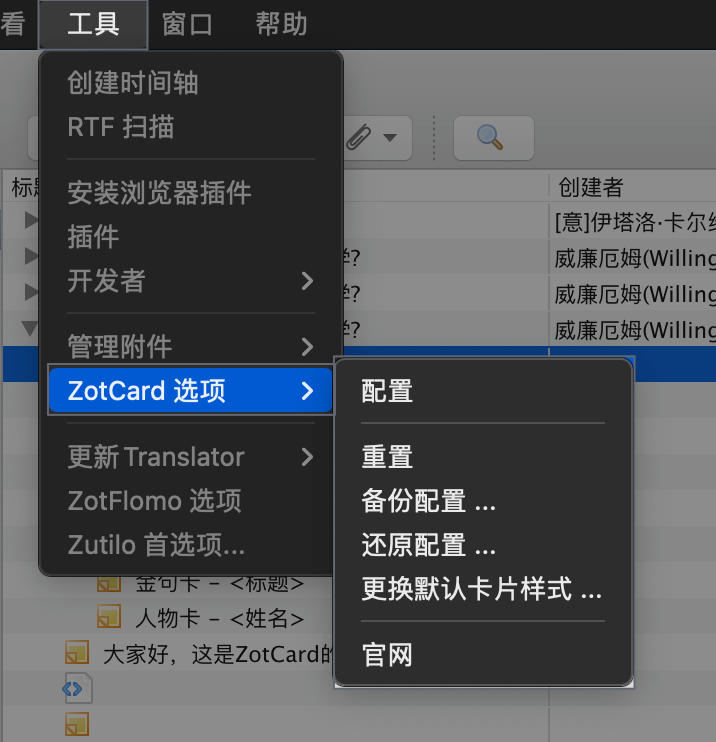
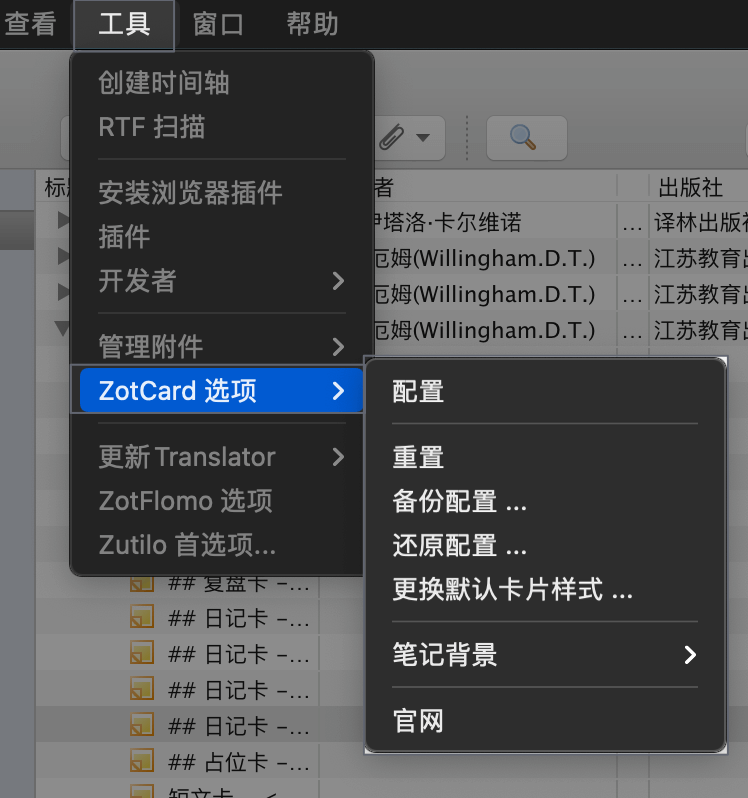
修复卡片样式的背景

diff --git a/chrome/content/zotcard.js b/chrome/content/zotcard.js
@@ -51,46 +51,6 @@ zotcard.init = function () {
   // Register the callback in Zotero as an item observer
   let notifierID = Zotero.Notifier.registerObserver(this.notifierCallback, ['item'])
 
-  document.getElementById('zotero-items-tree').onselect = function (e) {
-    ZoteroPane_Local.itemSelected(e)
-
-    var selectedItems = ZoteroPane.getSelectedItems()
-    if (selectedItems.length === 1) {
-      let item = selectedItems[0]
-      if (item.isNote()) {
-        let label = document.getElementById('zotero-view-note-counts')
-        if (!label) {
-          label = document.createElement('label')
-          label.setAttribute('id', 'zotero-view-note-counts')
-          label.textContent = `字数: 0  \t行数: 0 \t占空间: 0`
-          let noteEditor = document.getElementById('zotero-view-note')
-          noteEditor.prepend(label)
-        }
-        let hangzis = this.hangzi(item.getNote())
-        let liness = this.lines(item.getNote())
-        label.textContent = `字数: ${hangzis}     行数: ${liness}    占空间: ${item.getNote().length}`
-        Zotero.debug(`onselect: ${hangzis} ${liness}`)
-      }
-    }
-  }.bind(this)
-
-  document.getElementById('zotero-note-editor').onkeyup = function (e) {
-    let label = document.getElementById('zotero-view-note-counts')
-    if (!label) {
-      label = document.createElement('label')
-      label.setAttribute('id', 'zotero-view-note-counts')
-      label.textContent = `字数: 0  \t行数: 0 \t占空间: 0`
-      document.getElementById('zotero-view-note').prepend(label)
-    }
-
-    let noteEditor = e.currentTarget
-    Zotero.debug(`note: ${noteEditor.value}`)
-    let hangzis = this.hangzi(noteEditor.value)
-    let liness = this.lines(noteEditor.value)
-    label.textContent = `字数: ${hangzis}  \t行数: ${liness} \t占空间: ${noteEditor.value.length}`
-    Zotero.debug(`onkeyup: ${hangzis} ${liness}`)
-  }.bind(this)
-
   Zotero.Prefs.registerObserver('zotcard.card_quantity', function () {
     var quantity = Zotero.Prefs.get('zotcard.card_quantity')
     for (let index = 0; index < quantity; index++) {
@@ -100,6 +60,8 @@ zotcard.init = function () {
     this.resetCard(quantity + 1)
   }.bind(this))
 
+  document.getElementById('zotero-items-tree').addEventListener('select', this.itemsTreeOnSelect.bind(this), false)
+  document.getElementById('zotero-note-editor').addEventListener('keyup', this.noteEditorOnKeyup.bind(this), false)
   document.getElementById('zotero-itemmenu').addEventListener('popupshowing', this.refreshZoteroItemPopup.bind(this), false)
 
   this.initPrefs()
@@ -108,8 +70,48 @@ zotcard.init = function () {
   window.addEventListener('unload', function (e) {
     Zotero.Notifier.unregisterObserver(notifierID)
 
+    document.getElementById('zotero-items-tree').removeEventListener('select', this.itemsTreeOnSelect.bind(this), false)
+    document.getElementById('zotero-note-editor').removeEventListener('keyup', this.noteEditorOnKeyup.bind(this), false)
     document.getElementById('zotero-itemmenu').removeEventListener('popupshowing', this.refreshZoteroItemPopup.bind(this), false)
   }, false)
+}
+
+zotcard.noteEditorOnKeyup = function (e) {
+  let label = document.getElementById('zotero-view-note-counts')
+  if (!label) {
+    label = document.createElement('label')
+    label.setAttribute('id', 'zotero-view-note-counts')
+    label.textContent = `字数: 0  \t行数: 0 \t占空间: 0`
+    document.getElementById('zotero-view-note').prepend(label)
+  }
+
+  let noteEditor = e.currentTarget
+  Zotero.debug(`note: ${noteEditor.value}`)
+  let hangzis = this.hangzi(noteEditor.value)
+  let liness = this.lines(noteEditor.value)
+  label.textContent = `字数: ${hangzis}  \t行数: ${liness} \t占空间: ${noteEditor.value.length}`
+  Zotero.debug(`onkeyup: ${hangzis} ${liness}`)
+}
+
+zotcard.itemsTreeOnSelect = function () {
+  var selectedItems = ZoteroPane.getSelectedItems()
+  if (selectedItems.length === 1) {
+    let item = selectedItems[0]
+    if (item.isNote()) {
+      let label = document.getElementById('zotero-view-note-counts')
+      if (!label) {
+        label = document.createElement('label')
+        label.setAttribute('id', 'zotero-view-note-counts')
+        label.textContent = `字数: 0  \t行数: 0 \t占空间: 0`
+        let noteEditor = document.getElementById('zotero-view-note')
+        noteEditor.prepend(label)
+      }
+      let hangzis = this.hangzi(item.getNote())
+      let liness = this.lines(item.getNote())
+      label.textContent = `字数: ${hangzis}     行数: ${liness}    占空间: ${item.getNote().length}`
+      Zotero.debug(`onselect: ${hangzis} ${liness}`)
+    }
+  }
 }
 
 zotcard.refreshZoteroItemPopup = function () {
@@ -385,7 +387,6 @@ zotcard.newCard = async function (name) {
       if (isDebug()) Zotero.debug('creatorData: ' + JSON.stringify(creatorData))
     }
   }
-  var date = new Date()
   var item = new Zotero.Item('note')
   var pref = this.initPrefs(name)
   if (!pref) {
@@ -393,25 +394,51 @@ zotcard.newCard = async function (name) {
     ps.alert(window, this.getString('zotcard.warning'), this.getString('zotcard.please_configure', 'zotcard.' + name))
     return
   }
-  item.setNote(pref.card.replace(/\{authors\}/g, authors.toString())
-    .replace(/\{title\}/g, zitem.getField('title'))
-    .replace(/\{today\}/g, this.formatDate(date, 'yyyy-MM-dd'))
-    .replace(/\{now\}/g, this.formatDate(date, 'yyyy-MM-dd HH:mm:ss'))
-    .replace(/\{shortTitle\}/g, zitem.getField('shortTitle'))
-    .replace(/\{archiveLocation\}/g, zitem.getField('archiveLocation'))
-    .replace(/\{url\}/g, zitem.getField('url'))
-    .replace(/\{date\}/g, zitem.getField('date'))
-    .replace(/\{year\}/g, zitem.getField('year'))
-    .replace(/\{extra\}/g, zitem.getField('extra'))
-    .replace(/\{publisher\}/g, zitem.getField('publisher'))
-    .replace(/\{ISBN\}/g, zitem.getField('ISBN'))
-    .replace(/\{numPages\}/g, zitem.getField('numPages'))
-    .replace(/\\n/g, '\n'))
-  item.parentKey = zitem.getField('key')
-  item.libraryID = window.ZoteroPane.getSelectedLibraryID()
-  var itemID = await item.saveTx()
-  if (isDebug()) Zotero.debug('item.id: ' + itemID)
-  ZoteroPane.selectItem(itemID)
+  if (!pref.card) {
+    Zotero.ZotCard.Utils.warning(`在接下来的about:config窗口中进行配置。
+    zotcard.${name}\t\t\t卡片1模版
+    zotcard.${name}.label\t卡片1标题
+    zotcard.${name}.visible\t卡片1显示
+
+  详情请访问官网: https://github.com/018/zotcard`)
+    Zotero.openInViewer(`about:config?filter=zotero.zotcard.${name}`)
+  } else {
+    let now = new Date()
+    let firstDay = new Date()
+    firstDay.setMonth(0)
+    firstDay.setDate(0)
+    firstDay.setHours(23)
+    firstDay.setMinutes(59)
+    firstDay.setSeconds(59)
+    firstDay.setMilliseconds(59)
+    let dateGap = now.getTime() - firstDay.getTime()
+    let dayOfYear = Math.ceil(dateGap / (24 * 60 * 60 * 1000))
+    let weekOfYear = Math.ceil(dateGap / (7 * 24 * 60 * 60 * 1000))
+    let week = ['星期日', '星期一', '星期二', '星期三', '星期四', '星期五', '星期六'][now.getDay()]
+
+    item.setNote(pref.card.replace(/\{authors\}/g, authors.toString())
+      .replace(/\{title\}/g, zitem.getField('title'))
+      .replace(/\{today\}/g, this.formatDate(now, 'yyyy-MM-dd'))
+      .replace(/\{dayOfYear\}/g, dayOfYear)
+      .replace(/\{weekOfYear\}/g, weekOfYear)
+      .replace(/\{week\}/g, week)
+      .replace(/\{now\}/g, this.formatDate(now, 'yyyy-MM-dd HH:mm:ss'))
+      .replace(/\{shortTitle\}/g, zitem.getField('shortTitle'))
+      .replace(/\{archiveLocation\}/g, zitem.getField('archiveLocation'))
+      .replace(/\{url\}/g, zitem.getField('url'))
+      .replace(/\{date\}/g, zitem.getField('date'))
+      .replace(/\{year\}/g, zitem.getField('year'))
+      .replace(/\{extra\}/g, zitem.getField('extra'))
+      .replace(/\{publisher\}/g, zitem.getField('publisher'))
+      .replace(/\{ISBN\}/g, zitem.getField('ISBN'))
+      .replace(/\{numPages\}/g, zitem.getField('numPages'))
+      .replace(/\\n/g, '\n'))
+    item.parentKey = zitem.getField('key')
+    item.libraryID = window.ZoteroPane.getSelectedLibraryID()
+    var itemID = await item.saveTx()
+    if (isDebug()) Zotero.debug('item.id: ' + itemID)
+    ZoteroPane.selectItem(itemID)
+  }
 }
 
 zotcard.quotes = function () {
@@ -587,22 +614,17 @@ zotcard.copyHtmlToClipboard = function (textHtml) {
 }
 
 zotcard.config = function () {
-  Zotero.ZotCard.Utils.warning(`在接下来的about:config窗口中，搜索 ZotCard 进行配置。
+  Zotero.ZotCard.Utils.warning(`在接下来的about:config窗口中进行配置。
 默认：
   zotcard.quotes\t\t\t\t\t金句卡模版
+  zotcard.quotes.label\t\t\t\t金句卡标题
   zotcard.quotes.visible\t\t\t\t金句卡显示
-  zotcard.concept\t\t\t\t\t概念卡模版
-  zotcard.concept.visible\t\t\t\t概念卡显示
-  zotcard.character\t\t\t\t\t人物卡模版
-  zotcard.character.visible\t\t\t\t人物卡显示
-  zotcard.not_commonsense\t\t\t反常识卡模版
-  zotcard.not_commonsense.visible\t\t反常识卡显示
-  zotcard.skill\t\t\t\t\t\t技巧卡模版
-  zotcard.skill.visible\t\t\t\t\t技巧卡显示
-  zotcard.structure\t\t\t\t\t结构卡模版
-  zotcard.structure.visible\t\t\t\t结构卡显示
-  zotcard.general\t\t\t\t\t短文卡模版
-  zotcard.general.visible\t\t\t\t短文卡显示
+  zotcard.concept\t\t\t\t\t概念卡
+  zotcard.character\t\t\t\t\t人物卡
+  zotcard.not_commonsense\t\t\t反常识卡
+  zotcard.skill\t\t\t\t\t\t技巧卡
+  zotcard.structure\t\t\t\t\t结构卡
+  zotcard.general\t\t\t\t\t短文卡
   
 自定义：
   zotcard.card_quantity\t\t\t\t自定义卡片数
@@ -610,13 +632,10 @@ zotcard.config = function () {
   zotcard.card1.label\t\t\t\t\t卡片1标题
   zotcard.card1.visible\t\t\t\t卡片1显示
   ...
-  zotcard.cardN\t\t\t\t\t\t卡片N模版
-  zotcard.cardN.label\t\t\t\t\t卡片N菜单
-  zotcard.cardN.visible\t\t\t\t卡片N显示
   
 详情请访问官网: https://github.com/018/zotcard`)
 
-  Zotero.openInViewer('about:config')
+  Zotero.openInViewer('about:config?filter=zotero.zotcard')
 }
 
 zotcard.backup = function () {
@@ -763,6 +782,36 @@ zotcard.resetCard = function (index) {
   }
 }
 
+zotcard.noteBGColor = function (color) {
+  let val = Zotero.Prefs.get('note.css')
+  if (val) {
+    if (color) {
+      val = val.replace(/body +{ +background-color: +#[a-f|A-z|0-9]{3,6}; +}/g, `body { background-color: ${color}; }`)
+    } else {
+      val = val.replace(/body +{ +background-color: +#[a-f|A-z|0-9]{3,6}; +}/g, '')
+    }
+  } else {
+    if (color) {
+      val = `body { background-color: ${color}; }`
+    }
+  }
+  Zotero.Prefs.set('note.css', val)
+  Zotero.ZotCard.Utils.success(`设置成功，重启后生效。`)
+  Zotero.Utilities.Internal.quitZotero(true)
+}
+
+zotcard.resetNoteBGColor = function () {
+  this.noteBGColor()
+}
+
+zotcard.darkNoteBGColor = function () {
+  this.noteBGColor('#5E5E5E')
+}
+
+zotcard.grayNoteBGColor = function () {
+  this.noteBGColor('#F5F5F5')
+}
+
 zotcard.copyStringToClipboard = function (clipboardText) {
   const gClipboardHelper = Components.classes['@mozilla.org/widget/clipboardhelper;1'].getService(Components.interfaces.nsIClipboardHelper)
   gClipboardHelper.copyString(clipboardText, document)
@@ -889,6 +938,10 @@ if (typeof window !== 'undefined') {
   window.Zotero.ZotCard.backup = function () { zotcard.backup() }
   window.Zotero.ZotCard.restore = function () { zotcard.restore() }
   window.Zotero.ZotCard.transitionstyle = function () { zotcard.transitionstyle() }
+
+  window.Zotero.ZotCard.resetNoteBGColor = function () { zotcard.resetNoteBGColor() }
+  window.Zotero.ZotCard.darkNoteBGColor = function () { zotcard.darkNoteBGColor() }
+  window.Zotero.ZotCard.grayNoteBGColor = function () { zotcard.grayNoteBGColor() }
 }
 
 if (typeof module !== 'undefined') module.exports = zotcard
